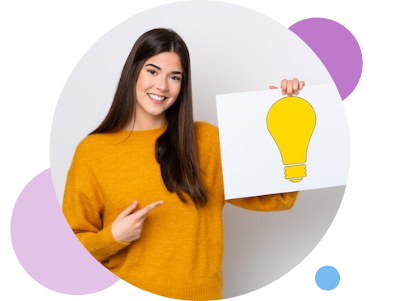
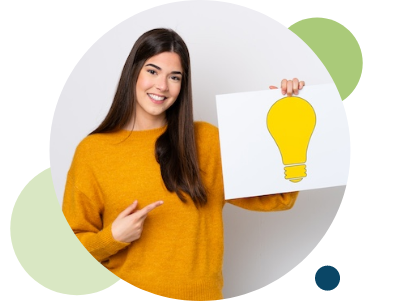
[ADD] Tema6

Changed region(s): [[0.0, 0.5681, 0.3, 0.9867], [0.72, 0.0598, 0.93, 0.3289], [0.78, 0.8671, 0.87, 0.9867]]

diff --git a/src/views/Tema6.vue b/src/views/Tema6.vue
@@ -22,7 +22,7 @@
       .cajon.color-secundario.p-4.mb-5(data-aos="fade-right")
           p.mb-0 El proceso de elaboración de una presentación puede generar un alto nivel de estrés, incluso para el vendedor más experimentado. Por ello, es fundamental seguir una serie de pasos concretos, planificados y bajo un control estricto.
       
-      .container.tarjeta.bg-color-6.mb-5(data-aos="fade-right")
+      .container.tarjeta.bg-color-9.mb-5(data-aos="fade-right")
         .row.align-items-center
           .col-lg-4.col-md-5.col-8.align-items-center.d-none.d-lg-block
             img.p-3(src="@/assets/curso/temas/t6/2.svg")
@@ -46,7 +46,7 @@
         .col-lg-4.col-md-8.d-none.d-lg-block
           img(src='@/assets/curso/temas/t6/3.png', alt='')
         .col-lg-6.col-md-12.col-sm-12
-          .tarjeta.bg-color-7
+          .tarjeta.bg-fondo-1
             SlyderA(tipo="b").p-4
               .row.justify-content-center.align-items-center
                 .col-lg-3.col-md-3.col-6
@@ -171,7 +171,7 @@
               .col
                 p Si la presentación es presencial, se sugiere ofrecer un apretón de manos firme y decidido, pues genera una buena primera impresión.
 
-      .container.tarjeta.bg-color-6.mb-5(data-aos="fade-right")
+      .container.tarjeta.bg-color-9.mb-5(data-aos="fade-right")
         .row.align-items-center
           .col-lg-4.col-md-5.col-8.align-items-center.d-none.d-lg-block
             img.p-3(src="@/assets/curso/temas/t6/2.svg")
@@ -188,70 +188,70 @@
 
       p.mb-5(data-aos="fade-right") Finalmente, existen diferentes herramientas y plataformas digitales para el diseño de presentaciones y que se pueden usar como apoyo al momento de presentar el producto ante el cliente. Algunas de las herramientas son:
       SlyderF(columnas="col-lg-6 col-xl-4 col-md-6")(data-aos="fade-right")
-          .tarjeta.bg-color-7.p-4
+          .tarjeta.bg-color-8.p-4
             .row.justify-content-center.p-4
               .col-7
                 img(src='@/assets/curso/temas/t6/21.png' alt='AvatarTop')
             .row.justify-content-center
               .col-9
                 h5.bg-color-5.text-center.p-1 Knovio
-          .tarjeta.bg-color-7.p-4
+          .tarjeta.bg-color-8.p-4
             .row.justify-content-center.p-4
               .col-7
                 img(src='@/assets/curso/temas/t6/22.png' alt='AvatarTop')
             .row.justify-content-center
               .col-9
                 h5.bg-color-5.text-center.p-1 PowToon
-          .tarjeta.bg-color-7.p-4
+          .tarjeta.bg-color-8.p-4
             .row.justify-content-center.p-4
               .col-7
                 img(src='@/assets/curso/temas/t6/23.png' alt='AvatarTop')
             .row.justify-content-center
               .col-9
                 h5.bg-color-5.text-center.p-1 Prezi
-          .tarjeta.bg-color-7.p-4
+          .tarjeta.bg-color-8.p-4
             .row.justify-content-center.p-4
               .col-7
                 img(src='@/assets/curso/temas/t6/24.png' alt='AvatarTop')
             .row.justify-content-center
               .col-9
                 h5.bg-color-5.text-center.p-1 Emaze
-          .tarjeta.bg-color-7.p-4
+          .tarjeta.bg-color-8.p-4
             .row.justify-content-center.p-4
               .col-7
                 img(src='@/assets/curso/temas/t6/25.png' alt='AvatarTop')
             .row.justify-content-center
               .col-9
                 h5.bg-color-5.text-center.p-1 Hakiu Deck
-          .tarjeta.bg-color-7.p-4
+          .tarjeta.bg-color-8.p-4
             .row.justify-content-center.p-4
               .col-7
                 img(src='@/assets/curso/temas/t6/26.png' alt='AvatarTop')
             .row.justify-content-center
               .col-9
                 h5.bg-color-5.text-center.p-1 Slidebean
-          .tarjeta.bg-color-7.p-4
+          .tarjeta.bg-color-8.p-4
             .row.justify-content-center.p-4
               .col-7
                 img(src='@/assets/curso/temas/t6/27.png' alt='AvatarTop')
             .row.justify-content-center
               .col-9
                 h5.bg-color-5.text-center.p-1 Canva
-          .tarjeta.bg-color-7.p-4
+          .tarjeta.bg-color-8.p-4
             .row.justify-content-center.p-4
               .col-7
                 img(src='@/assets/curso/temas/t6/28.png' alt='AvatarTop')
             .row.justify-content-center
               .col-9
                 h5.bg-color-5.text-center.p-1 Google Slides
-          .tarjeta.bg-color-7.p-4
+          .tarjeta.bg-color-8.p-4
             .row.justify-content-center.p-4
               .col-7
                 img(src='@/assets/curso/temas/t6/29.png' alt='AvatarTop')
             .row.justify-content-center
               .col-9
                 h5.bg-color-5.text-center.p-1 Visme
-          .tarjeta.bg-color-7.p-4
+          .tarjeta.bg-color-8.p-4
             .row.justify-content-center.p-4
               .col-7
                 img(src='@/assets/curso/temas/t6/30.png' alt='AvatarTop')

diff --git a/src/styles/_custom.sass b/src/styles/_custom.sass
@@ -260,7 +260,7 @@ figcaption
 
 .tabs-c__header 
     margin-bottom: -7px
-    
+
 .tarjeta-numerada.color-custom
     border-color: #B5C7D1
 .tarjeta-numerada.color-custom .tarjeta-numerada__numero
@@ -367,24 +367,24 @@ figcaption
 
 .crd--first
   &::before 
-    background-color: #E9E2F7 !important
+    background-color: #E4F0F9 !important
 
 .crd--last
   &::before 
-    background-color: #CCBBEB !important
+    background-color: #66B8F5 !important
 
 .crd--2
   &::before 
-    background-color: #E4DAF7 !important
+    background-color: #D0E7F8 !important
 .crd--3
   &::before 
-    background-color: #DED1F5 !important
+    background-color: #BDDDF5  !important
 .crd--4
   &::before 
-    background-color: #D7C6F5 !important
+    background-color:#A0CFF2 !important
 .crd--5
   &::before 
-    background-color: #D3C2F2 !important
+    background-color: #85C0EC !important
 
 .crd--first
   &::before 
